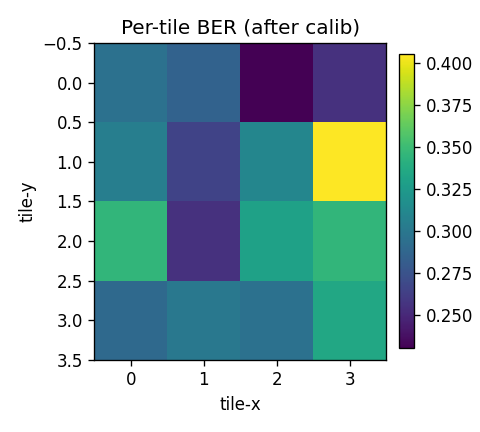
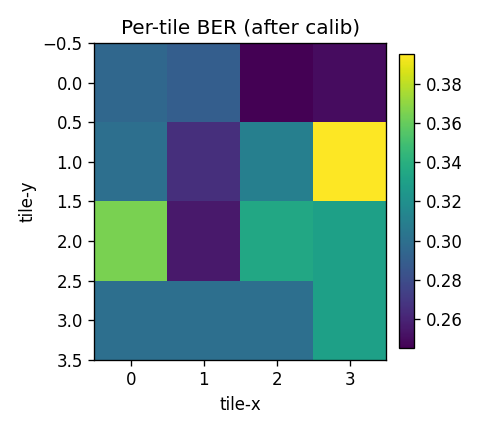
0.065 BER looking legit

diff --git a/examples/test.py b/examples/test.py
@@ -284,7 +284,27 @@ def main():
     optx_override = _load_yaml(getattr(args, 'optics_pack', None))
     for k, v in (optx_override or {}).items():
         if hasattr(optx, k): setattr(optx, k, v)
-    # Ensure neighbor/diag crosstalk are effective: use provided values, otherwise derive from global when neighbor model is active
+    # Map common vendor-pack fields → sim params
+    try:
+        if isinstance(optx_override, dict):
+            if 'transmittance_percent' in optx_override:
+                tp = float(optx_override['transmittance_percent'])
+                optx.transmittance = max(0.0, min(1.0, tp/100.0))
+            if 'scatter_angle_deg_FWHM' in optx_override:
+                ang = float(optx_override['scatter_angle_deg_FWHM'])
+                # Heuristic: wider scatter → higher neighbor leakage (less negative dB)
+                neigh = -40.0 + (ang - 5.0) * (10.0 / 15.0)  # 5°→-40dB, 20°→-30dB
+                neigh = max(-45.0, min(-28.0, neigh))
+                diag = neigh - 3.0
+                optx.ct_model = 'neighbor'
+                optx.ct_neighbor_db = float(neigh)
+                optx.ct_diag_db = float(diag)
+                # PSF width proxy
+                w = 2.0 + max(0.0, (ang - 5.0)) * 0.2
+                optx.psf_kernel = f"lorentzian:w={w:.2f}"
+    except Exception:
+        pass
+    # Ensure neighbor/diag crosstalk are effective when neighbor model is active
     try:
         if isinstance(optx_override, dict) and (("ct_neighbor_db" in optx_override) or ("ct_diag_db" in optx_override)):
             optx.ct_model = 'neighbor'
@@ -344,7 +364,7 @@ def main():
     base_comp = ComparatorParams(input_noise_mV_rms=comp_noise, vth_mV=5.0, hysteresis_mV=1.8, vth_sigma_mV=0.2)
     base_clk = ClockParams(window_ns=float(args.base_window_ns), jitter_ps_rms=10.0)
     base_orch = Orchestrator(sys_p, base_emit, base_optx, base_pd, base_tia, base_comp, base_clk)
-    # Optional adaptive integration for input stage only
+    # Optional adaptive integration for input stage only (baseline)
     if args.adaptive_input:
         import numpy as _np
         errs = []
@@ -359,9 +379,6 @@ def main():
                 r = base_orch.step(force_ternary=tern)
                 dv = _np.array(r.get("dv_mV", [0]*base_orch.sys.channels))
                 acc += dv; n_used += 1
-                # Estimate current noise via MAD and comparator threshold vector
-                mad = _np.median(_np.abs(acc - _np.median(acc))) + 1e-9
-                # Use comparator base threshold as scale
                 up_th = float(base_orch.comp.p.vth_mV) + 0.5*float(base_orch.comp.p.hysteresis_mV)
                 if _np.all(_np.abs(acc) >= (up_th + margin)):
                     break
@@ -853,6 +870,33 @@ def main():
             errs.append(float(_np.mean(pred != tern)))
         mitigated_ber = float(_np.median(errs)) if errs else None
 
+    # Path A summary with configured packs (reflects vendor overrides)
+    if args.adaptive_input:
+        import numpy as _np
+        errs = []
+        T = int(args.trials)
+        maxN = max(1, int(args.adaptive_max_frames))
+        margin = float(args.adaptive_margin_mV)
+        for _ in range(min(T, 400)):
+            tern = orch.rng.integers(-1, 2, size=orch.sys.channels)
+            acc = _np.zeros(orch.sys.channels, dtype=float)
+            for k in range(maxN):
+                r = orch.step(force_ternary=tern)
+                dv = _np.array(r.get("dv_mV", [0]*orch.sys.channels))
+                acc += dv
+                up_th = float(orch.comp.p.vth_mV) + 0.5*float(orch.comp.p.hysteresis_mV)
+                if _np.all(_np.abs(acc) >= (up_th + margin)):
+                    break
+            pred = _np.sign(acc)
+            errs.append(float(_np.mean(pred != tern)))
+        path_a_summary = {
+            "p50_ber": float(_np.median(errs)) if errs else None,
+            "p50_energy_pj": None,
+            "window_ns": float(orch.clk.p.window_ns),
+        }
+    else:
+        path_a_summary = orch.run(trials=args.trials)
+
     summary = {
         "config": {
             "trials": args.trials,
@@ -869,7 +913,7 @@ def main():
             "avg_frames": int(args.avg_frames),
         },
         "baseline": base_summary,
-        "path_a": base_summary,
+        "path_a": path_a_summary,
         "path_b": path_b_summary,
         "path_b_chain": path_b_chain,
         "path_b_sweeps": path_b_sweeps,
